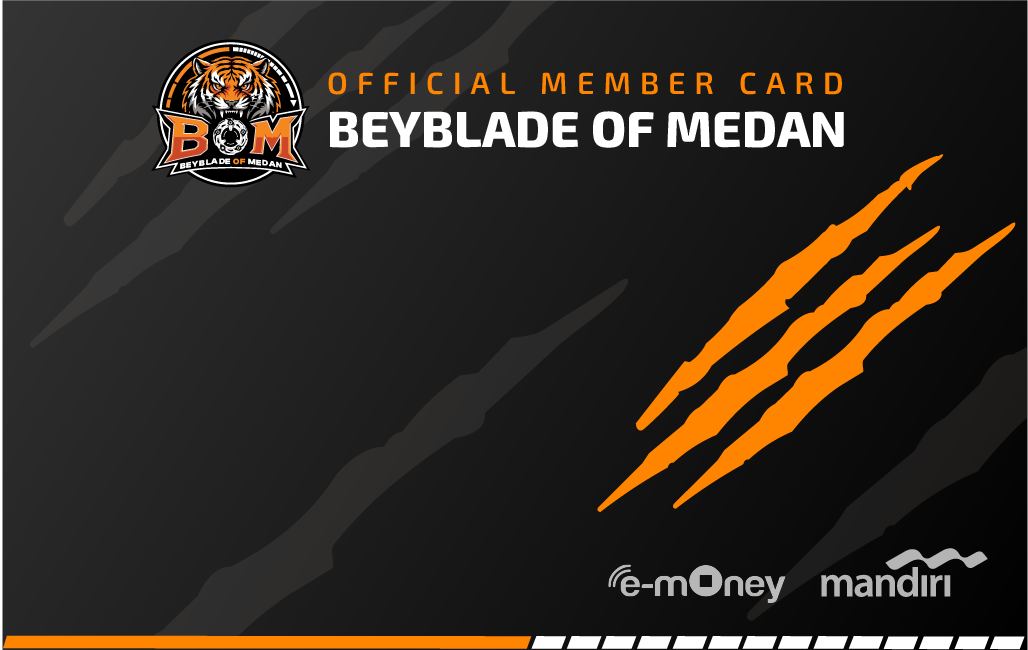
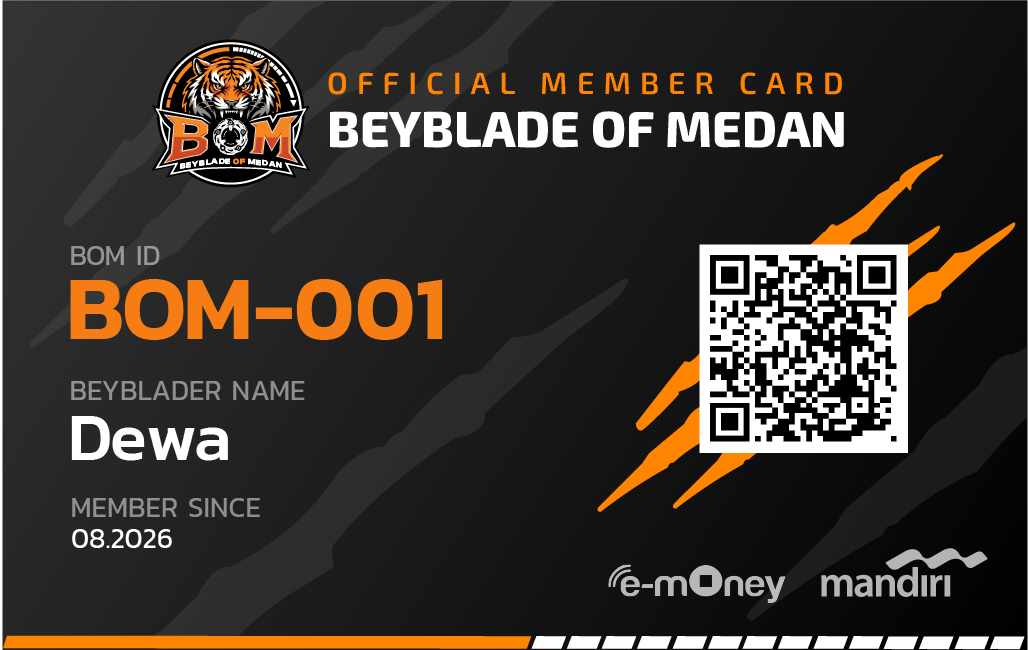
Flippable member cards with downloads, Tiger King for Non BOM ID in Unrank events, membership payment text

diff --git a/src/components/bom/flippable-member-card.tsx b/src/components/bom/flippable-member-card.tsx
@@ -1,0 +1,96 @@
+"use client";
+import { Download, RotateCw } from "lucide-react";
+import Image from "next/image";
+import { useRef, useState } from "react";
+import { Button } from "@/components/ui/button";
+import { MemberCard } from "./member-card";
+
+const loadImage = (src: string) => new Promise<HTMLImageElement>((resolve, reject) => {
+  const img = new window.Image();
+  img.onload = () => resolve(img);
+  img.onerror = () => reject(new Error("Could not load the card image"));
+  img.src = src;
+});
+
+/** Offset of an element inside the card, ignoring the flip transform (unlike getBoundingClientRect). */
+function offsetIn(el: HTMLElement, root: HTMLElement) {
+  let x = 0, y = 0;
+  for (let n: HTMLElement | null = el; n && n !== root; n = n.offsetParent as HTMLElement | null) { x += n.offsetLeft; y += n.offsetTop; }
+  return { x, y };
+}
+
+function save(href: string, filename: string) {
+  const a = document.createElement("a");
+  a.href = href;
+  a.download = filename;
+  document.body.append(a);
+  a.click();
+  a.remove();
+}
+
+/** Draws the front as it looks on the page (background, texts and QR code) onto a canvas at the background's full size and saves it as a PNG. */
+async function downloadFront(root: HTMLElement, bomId: string) {
+  const bg = await loadImage("/print/bom-emoney-03-blank.png");
+  const canvas = document.createElement("canvas");
+  canvas.width = bg.naturalWidth;
+  canvas.height = bg.naturalHeight;
+  const ctx = canvas.getContext("2d")!;
+  const k = canvas.width / root.offsetWidth;
+  ctx.drawImage(bg, 0, 0);
+  ctx.textBaseline = "middle";
+  root.querySelectorAll<HTMLElement>("[data-card-text]").forEach((el) => {
+    const cs = getComputedStyle(el);
+    const { x, y } = offsetIn(el, root);
+    ctx.font = `${cs.fontStyle} ${cs.fontWeight} ${parseFloat(cs.fontSize) * k}px ${cs.fontFamily}`;
+    ctx.fillStyle = cs.color;
+    const text = cs.textTransform === "uppercase" ? (el.textContent ?? "").toUpperCase() : (el.textContent ?? "");
+    ctx.fillText(text, x * k, (y + el.offsetHeight / 2) * k);
+  });
+  const qr = root.querySelector<HTMLImageElement>("[data-card-qr]");
+  if (qr) {
+    const { x, y } = offsetIn(qr, root);
+    const r = 6 * k;
+    ctx.fillStyle = "#fff";
+    ctx.beginPath();
+    ctx.roundRect(x * k, y * k, qr.offsetWidth * k, qr.offsetHeight * k, r);
+    ctx.fill();
+    ctx.drawImage(await loadImage(qr.src), x * k, y * k, qr.offsetWidth * k, qr.offsetHeight * k);
+  }
+  save(canvas.toDataURL("image/png"), `${bomId.toLowerCase()}-card-front.png`);
+}
+
+/** The member's card that turns over on a click or with a button to show the back (public/print/bom-emoney-04.png). */
+export function FlippableMemberCard({ bomId, bladerName, since, qr, design }: { bomId: string; bladerName: string; since: string; qr?: string; design?: "print" | "classic" }) {
+  const [back, setBack] = useState(false);
+  const [busy, setBusy] = useState(false);
+  const box = useRef<HTMLDivElement>(null);
+  const front = async () => {
+    const root = box.current?.querySelector<HTMLElement>("[data-member-card]");
+    if (!root) return;
+    setBusy(true);
+    try { await downloadFront(root, bomId); } finally { setBusy(false); }
+  };
+  return (
+    <div className="space-y-3" ref={box}>
+      <div className="[perspective:1200px]">
+        <div
+          className="relative aspect-[1028/650] w-full cursor-pointer transition-transform duration-700 ease-out [transform-style:preserve-3d] motion-reduce:transition-none"
+          style={{ transform: back ? "rotateY(180deg)" : "rotateY(0deg)" }}
+          onClick={() => setBack((b) => !b)}
+        >
+          <div className="absolute inset-0 [backface-visibility:hidden]" aria-hidden={back}>
+            <MemberCard bomId={bomId} bladerName={bladerName} since={since} qr={qr} design={design} />
+          </div>
+          <div className="absolute inset-0 overflow-hidden rounded-xl border border-white/10 [backface-visibility:hidden] [transform:rotateY(180deg)]" aria-hidden={!back}>
+            <Image src="/print/bom-emoney-04.png" alt="Back of the member card: TikTok, Instagram, email and website of Beyblade of Medan" fill sizes="(min-width: 768px) 26rem, 100vw" className="object-cover" />
+          </div>
+        </div>
+      </div>
+      <div className="flex flex-wrap justify-center gap-2">
+        <Button type="button" variant="outline" size="sm" onClick={() => setBack((b) => !b)} aria-pressed={back}><RotateCw aria-hidden />{back ? "Show the front" : "Show the back"}</Button>
+        <Button type="button" variant="outline" size="sm" onClick={front} disabled={busy}><Download aria-hidden />Download front</Button>
+        <Button type="button" variant="outline" size="sm" onClick={() => save("/print/bom-emoney-04.png", `${bomId.toLowerCase()}-card-back.png`)}><Download aria-hidden />Download back</Button>
+      </div>
+    </div>
+  );
+}

diff --git a/src/components/bom/member-card.tsx b/src/components/bom/member-card.tsx
@@ -1,29 +1,44 @@
 import Image from "next/image";
 
-/** The member's card: the printed Emoney card (public/print/bom-emoney-03.png) as its background, with this member's details on top. `qr` is a data URL for the QR code on the right. */
-export function MemberCard({ bomId, bladerName, since, qr }: { bomId: string; bladerName: string; since: string; qr?: string }) {
+/**
+ * The member's card. `design="print"` (the member page) uses the printed Emoney card (public/print/bom-emoney-03-blank.png) as its
+ * background; `design="classic"` (the membership sign-up) keeps the original dark card with its own logo, title and stripe.
+ * `qr` is a data URL for the QR code on the right.
+ */
+export function MemberCard({ bomId, bladerName, since, qr, design = "print" }: { bomId: string; bladerName: string; since: string; qr?: string; design?: "print" | "classic" }) {
+  const classic = design === "classic";
   return (
-    <div className="@container relative aspect-[1028/650] w-full overflow-hidden rounded-xl border border-white/10 bg-black text-left">
-      {/* The artwork already has the logo, the title, the claws and the stripe at the bottom. */}
-      <Image src="/print/bom-emoney-03.png" alt="" fill sizes="(min-width: 768px) 26rem, 100vw" priority className="object-cover" />
+    <div data-member-card className={`@container relative aspect-[1028/650] w-full overflow-hidden rounded-xl border border-white/10 text-left ${classic ? "bg-gradient-to-br from-zinc-800 via-zinc-950 to-black p-[4%]" : "bg-black"}`}>
+      {classic ? (
+        <div className="flex items-center gap-[4%]">
+          <Image src="/brand/logo-768.png" alt="" width={96} height={96} className="size-[17%] shrink-0" />
+          <div>
+            <div className="text-primary font-display text-[2.6cqw] font-bold tracking-[0.3em] uppercase">Official Member Card</div>
+            <div className="font-display text-[4.6cqw] leading-tight font-extrabold uppercase">Beyblade of Medan</div>
+          </div>
+        </div>
+      ) : (
+        <Image src="/print/bom-emoney-03-blank.png" alt="" fill sizes="(min-width: 768px) 26rem, 100vw" priority className="object-cover" />
+      )}
       <div className="absolute bottom-[10%] left-[4%] space-y-[3%]">
         <div>
-          <div className="text-muted-foreground text-[2.2cqw] uppercase">BOM ID</div>
-          <div className="text-primary font-display text-[8.5cqw] leading-none font-black uppercase">{bomId.toUpperCase()}</div>
+          <div data-card-text className="text-muted-foreground text-[2.2cqw] uppercase">BOM ID</div>
+          <div data-card-text className="text-primary font-display text-[8.5cqw] leading-none font-black uppercase">{bomId.toUpperCase()}</div>
         </div>
         <div className="mt-3">
-          <div className="text-muted-foreground text-[2.2cqw] uppercase">Beyblader name</div>
-          <div className="font-display text-[5cqw] leading-tight font-bold">{bladerName}</div>
+          <div data-card-text className="text-muted-foreground text-[2.2cqw] uppercase">Beyblader name</div>
+          <div data-card-text className="font-display text-[5cqw] leading-tight font-bold">{bladerName}</div>
         </div>
         <div className="mt-3">
-          <div className="text-muted-foreground text-[2cqw] uppercase">Member since</div>
-          <div className="text-[2.3cqw]">{since}</div>
+          <div data-card-text className="text-muted-foreground text-[2cqw] uppercase">Member since</div>
+          <div data-card-text className="text-[2.3cqw]">{since}</div>
         </div>
       </div>
       {qr && (
         // eslint-disable-next-line @next/next/no-img-element -- a generated data URL
-        <img src={qr} alt={`QR code for ${bomId.toUpperCase()}`} className="absolute top-[32%] right-[8%] aspect-square w-[22%] rounded-md bg-white" />
+        <img data-card-qr src={qr} alt={`QR code for ${bomId.toUpperCase()}`} className={`absolute aspect-square rounded-md bg-white ${classic ? "top-[36%] right-[6%] w-[30%]" : "top-[32%] right-[8%] w-[22%]"}`} />
       )}
+      {classic && <div aria-hidden className="bg-primary absolute inset-x-0 bottom-0 h-[1.5%]" />}
     </div>
   );
 }

diff --git a/src/app/membership/membership-form.tsx b/src/app/membership/membership-form.tsx
@@ -4,13 +4,13 @@ import { startTransition, useActionState, useState } from "react";
 import Image from "next/image";
 import { CalendarDays, MapPin } from "lucide-react";
 import { WhatsappIcon } from "@/components/bom/brand-icons";
-import { MemberCard } from "@/components/bom/member-card";
+import { FlippableCardImages } from "@/components/bom/flippable-card-images";
 import { Button } from "@/components/ui/button";
 import { Card, CardContent, CardDescription, CardHeader, CardTitle } from "@/components/ui/card";
 import { Input, NativeSelect, Textarea } from "@/components/ui/input";
 import { AGE_GROUPS, HEAR_FROM } from "@/domain/join-request";
 import { MEMBERSHIP_FEE } from "@/lib/content";
-import { ADMIN_WHATSAPP, ADMIN_WHATSAPP_URL, PAYMENT_ACCOUNT } from "@/lib/venue";
+import { PAYMENT_ACCOUNT } from "@/lib/venue";
 import { ProofUpload } from "@/components/form/proof-upload";
 import { checkBladerName, registerMember } from "./actions";
 import { BomIdBadge } from "@/components/bom/bom-id-badge";
@@ -20,7 +20,7 @@ type Props = { since: string; nextEvent: string | null; venue: string; whatsappI
 const label = "text-muted-foreground mb-1 block text-xs uppercase";
 const Req = () => <span className="text-destructive" aria-hidden> *</span>;
 
-export function MembershipForm({ since, nextEvent, venue, whatsappInvite }: Props) {
+export function MembershipForm({ nextEvent, venue, whatsappInvite }: Props) {
   const [state, run, pending] = useActionState(registerMember, {});
   const [ageGroup, setAgeGroup] = useState("");
   const [nameTaken, setNameTaken] = useState(false);
@@ -29,7 +29,7 @@ export function MembershipForm({ since, nextEvent, venue, whatsappInvite }: Prop
   if (state.ok && state.data) {
     return (
       <div className="space-y-4">
-        <MemberCard bomId={state.data.bomId} bladerName={state.data.bladerName} since={since} />
+        <FlippableCardImages className="mx-auto w-full max-w-md" />
         <Card className="border-primary">
           <CardHeader>
             <CardTitle>Welcome, {state.data.bladerName}!</CardTitle>
@@ -107,7 +107,7 @@ export function MembershipForm({ since, nextEvent, venue, whatsappInvite }: Prop
               <Image src="/print/G609448641-0703A01-gma_branding-1792299733.png" alt="BOM payment QRIS" width={1000} height={1150} className="mx-auto w-full max-w-xs rounded-md" />
               <p>{PAYMENT_ACCOUNT}</p>
               <p className="text-muted-foreground">
-                Please contact our admin (<a href={ADMIN_WHATSAPP_URL} target="_blank" rel="noopener noreferrer" className="text-primary underline">{ADMIN_WHATSAPP}</a>) if you have any question, like wanting to choose a certain number as your ID number or to pick up the card.
+                Please contact our admin in {whatsappInvite ? <a href={whatsappInvite} target="_blank" rel="noopener noreferrer" className="text-primary underline">Whatsapp group</a> : "Whatsapp group"}
               </p>
             </div>
             <div>

diff --git a/src/app/admin/leaderboard/results-entry.tsx b/src/app/admin/leaderboard/results-entry.tsx
@@ -31,8 +31,8 @@ const MODES = [["manual", "Add one by one"], ["paste", "Paste a list"], ["challo
 type Mode = (typeof MODES)[number][0];
 
 /** Three ways to enter an event's results: add a member at a time, paste the whole list, or read the final ranking of a Challonge bracket. */
-export function ResultsEntry({ eventId, text, challongeUrl, members, hasChallongeKey }: {
-  eventId: string; text: string; challongeUrl: string | null; members: { id: string; name: string; bom_id: string }[]; hasChallongeKey: boolean;
+export function ResultsEntry({ eventId, text, challongeUrl, members, hasChallongeKey, tier }: {
+  tier: string; eventId: string; text: string; challongeUrl: string | null; members: { id: string; name: string; bom_id: string }[]; hasChallongeKey: boolean;
 }) {
   const [mode, setMode] = useState<Mode>(challongeUrl ? "challonge" : "paste");
   const [list, setList] = useState(text);
@@ -48,11 +48,11 @@ export function ResultsEntry({ eventId, text, challongeUrl, members, hasChallong
   const preview = useMemo(() => {
     if (list.trim() === "") return null;
     try {
-      return { rows: parseResultsText(list, members) };
+      return { rows: parseResultsText(list, members, { guestTigerKing: tier === "Unrank" }) };
     } catch (e) {
       return { error: e instanceof Error ? e.message : "Check the list" };
     }
-  }, [list, members]);
+  }, [list, members, tier]);
 
   // Typing "dewa", "bom 1" or the full suggestion all find the member.
   const chosen = findMember(members, memberText);
@@ -128,7 +128,7 @@ export function ResultsEntry({ eventId, text, challongeUrl, members, hasChallong
             <HelpTip label="How to enter results">
               <p><b>Top 8:</b> the place, then a BOM ID or a name (or both: <code>1 [BOM-001] Decade</code>). That is all that is needed. Optionally, up to three combo lines under it. <b>Leave a blank line between members.</b></p>
               <p><b>9th and below:</b> number them (<code>9 [BOM-010]</code>), then one member per line, just a BOM ID or a name. Only the top 8 can have combos.</p>
-              <p>Add (TK) after the Tiger King, once. Two members can share a place.</p>
+              <p>Add (TK) after the Tiger King, once. Two members can share a place.{tier === "Unrank" && " In an Unrank event a Non BOM ID can be the Tiger King too (no points are given)."}</p>
               <p><b>Not a member?</b> Write <code>[Non BOM ID]</code> instead of the BOM ID. A name that matches no member is also saved as Non BOM ID automatically: it counts as a participant but is not shown on the leaderboard or in results.</p>
               <p>A plain list of names, one per line, still works (first line is 1st place). Saving replaces the results of this event.</p>
               <pre className="bg-muted/60 rounded p-2 whitespace-pre">{TEMPLATE}</pre>

diff --git a/src/domain/result.ts b/src/domain/result.ts
@@ -52,9 +52,10 @@ const TK_MARK = /(\(tk\)|\*)\s*$/i;
  *
  * A member is found by the BOM ID in brackets, else by blader name. "(TK)" or "*" after the name gives the Tiger King,
  * once. A name that matches no member is saved as a guest (Non BOM ID); write "[Non BOM ID]" to make a guest even when a
- * member has the same name. Only the top 8 and the Tiger King can have combos.
+ * member has the same name. Only the top 8 and the Tiger King can have combos. A guest can be Tiger King only when
+ * `guestTigerKing` is set (Unrank events, which give no points).
  */
-export function parseResultsText(text: string, players: Candidate[]): ResultRow[] {
+export function parseResultsText(text: string, players: Candidate[], opts: { guestTigerKing?: boolean } = {}): ResultRow[] {
   const squash = (v: string) => v.toLowerCase().replace(/[\s-]/g, "");
   const lines = text.split(/\r?\n/).map((l) => l.trim()).filter(Boolean);
   if (lines.length === 0) throw new Error("Add at least one member");
@@ -123,11 +124,11 @@ export function parseResultsText(text: string, players: Candidate[]): ResultRow[
       // Marked Non BOM ID: counted as a participant, never shown on the leaderboard.
       const guestName = rest.slice(0, 60);
       if (!guestName) throw new Error("A line has no name");
-      if (tigerKing) tigerGuests.push(guestName);
-      else rows.push({ playerId: null, guestName, place, tigerKing: false, combos });
+      if (tigerKing && !opts.guestTigerKing) tigerGuests.push(guestName);
+      else rows.push({ playerId: null, guestName, place, tigerKing, combos });
     }
   }
-  if (tigerGuests.length) throw new Error(`${tigerGuests.join(", ")} has no BOM ID, so cannot be Tiger King`);
+  if (tigerGuests.length) throw new Error(`${tigerGuests.join(", ")} has no BOM ID, so cannot be Tiger King (only in Unrank events)`);
   const keys = rows.map((r) => r.playerId ?? `guest:${r.guestName!.toLowerCase()}`);
   if (new Set(keys).size !== keys.length) throw new Error("A name is listed twice");
   if (rows.filter((r) => r.tigerKing).length > 1) throw new Error("Only one Tiger King per event");

diff --git a/src/components/bom/flippable-card-images.tsx b/src/components/bom/flippable-card-images.tsx
@@ -1,0 +1,27 @@
+"use client";
+import { RotateCw } from "lucide-react";
+import Image from "next/image";
+import { useState } from "react";
+import { Button } from "@/components/ui/button";
+
+/** The printed card (bom-emoney-03.png) and its back (bom-emoney-04.png): click the card or the button to turn it over. */
+export function FlippableCardImages({ className }: { className?: string }) {
+  const [back, setBack] = useState(false);
+  return (
+    <div className={className}>
+      <div className="[perspective:1200px]">
+        <div
+          className="relative aspect-[1028/650] w-full cursor-pointer transition-transform duration-700 ease-out [transform-style:preserve-3d] motion-reduce:transition-none"
+          style={{ transform: back ? "rotateY(180deg)" : "rotateY(0deg)" }}
+          onClick={() => setBack((b) => !b)}
+        >
+          <Image src="/print/bom-emoney-03.png" alt="BOM Emoney Membership Card, front" width={1028} height={650} className="absolute inset-0 w-full rounded-xl [backface-visibility:hidden]" aria-hidden={back} />
+          <Image src="/print/bom-emoney-04.png" alt="BOM Emoney Membership Card, back" width={1028} height={650} className="absolute inset-0 w-full rounded-xl [backface-visibility:hidden] [transform:rotateY(180deg)]" aria-hidden={!back} />
+        </div>
+      </div>
+      <div className="mt-3 flex justify-center">
+        <Button type="button" variant="outline" size="sm" onClick={() => setBack((b) => !b)} aria-pressed={back}><RotateCw aria-hidden />{back ? "Show the front" : "Show the back"}</Button>
+      </div>
+    </div>
+  );
+}

diff --git a/src/app/admin/leaderboard/actions.ts b/src/app/admin/leaderboard/actions.ts
@@ -50,8 +50,9 @@ export async function saveEventResults(eventId: string, _prev: FormState, formDa
   const state = await toFormState(async () => {
     if (!isUuid(eventId)) throw new Error("Invalid input");
     const supabase = await requireResultsAccess(staff, eventId);
+    const event = await supabaseScheduleEvents(supabase).get(eventId);
     const players = await supabasePlayers(supabase).list(1000, { includeRegistered: true });
-    const rows = parseResultsText(String(formData.get("results") ?? ""), players.flatMap((p) => (p.id ? [{ id: p.id, name: p.name, bom_id: p.bom_id }] : [])));
+    const rows = parseResultsText(String(formData.get("results") ?? ""), players.flatMap((p) => (p.id ? [{ id: p.id, name: p.name, bom_id: p.bom_id }] : [])), { guestTigerKing: event?.tier === "Unrank" });
     guests = rows.flatMap((r) => (r.guestName ? [r.guestName] : []));
     await supabaseResults(supabase).replaceForEvent(eventId, rows);
     // The Challonge bracket the list came from, kept with the event so the site can link to it.

diff --git a/src/app/member/[bomId]/page.tsx b/src/app/member/[bomId]/page.tsx
@@ -2,7 +2,7 @@ import { ArrowLeft, Crown, ExternalLink } from "lucide-react";
 import type { Metadata } from "next";
 import Link from "next/link";
 import { notFound, permanentRedirect } from "next/navigation";
-import { MemberCard } from "@/components/bom/member-card";
+import { FlippableMemberCard } from "@/components/bom/flippable-member-card";
 import { Badge } from "@/components/ui/badge";
 import { Card, CardContent, CardHeader, CardTitle } from "@/components/ui/card";
 import { Table, TableBody, TableCell, TableHead, TableHeader, TableRow } from "@/components/ui/table";
@@ -83,7 +83,7 @@ export default async function MemberPage({ params }: Props) {
             </div>
           </div>
         </div>
-        <MemberCard bomId={player.bom_id} bladerName={player.name} since={since} qr={qr} />
+        <FlippableMemberCard bomId={player.bom_id} bladerName={player.name} since={since} qr={qr} />
       </div>
 
       <div className="grid grid-cols-2 gap-3 sm:grid-cols-3 md:grid-cols-6">

diff --git a/src/app/membership/page.tsx b/src/app/membership/page.tsx
@@ -1,5 +1,5 @@
+import { FlippableCardImages } from "@/components/bom/flippable-card-images";
 import { Check } from "lucide-react";
-import Image from "next/image";
 import { RibbonBanner } from "@/components/bom/ribbon-banner";
 import { SectionHeading } from "@/components/bom/section-heading";
 import { Card, CardDescription, CardHeader, CardTitle } from "@/components/ui/card";
@@ -39,7 +39,7 @@ export default async function MembershipPage() {
               ))}
             </ul>
             <p className="mt-4 max-w-xl">Don&apos;t miss out on these exclusive perks—join us now and elevate your Beyblade experience with us!</p>
-            <Image src="/print/bom-emoney-03.png" alt="BOM Emoney Membership Card" width={1028} height={650} className="mt-6 w-full max-w-md rounded-xl" />
+            <FlippableCardImages className="mt-6 w-full max-w-md" />
           </section>
 
           <section aria-labelledby="how">

diff --git a/src/server/results.ts b/src/server/results.ts
@@ -81,7 +81,7 @@ export function supabaseResults(client: SupabaseClient): ResultsRepository {
     },
     async replaceForEvent(eventId, rows) {
       const members = rows.flatMap((r) => (r.playerId ? [{ event_id: eventId, player_id: r.playerId, place: r.place, tiger_king: r.tigerKing, combos: r.combos }] : []));
-      const guests = rows.flatMap((r) => (r.guestName ? [{ event_id: eventId, guest_name: r.guestName, place: r.place, tiger_king: false, combos: r.combos }] : []));
+      const guests = rows.flatMap((r) => (r.guestName ? [{ event_id: eventId, guest_name: r.guestName, place: r.place, tiger_king: r.tigerKing, combos: r.combos }] : []));
       if (members.length) {
         const { error } = await client.from("event_placements").upsert(members, { onConflict: "event_id,player_id" });
         check(error, "Failed to save results");

diff --git a/src/app/admin/leaderboard/results/[eventId]/page.tsx b/src/app/admin/leaderboard/results/[eventId]/page.tsx
@@ -44,7 +44,7 @@ export default async function EventResultsPage({ params }: { params: Promise<{ e
         </div>
 
         <Participants eventId={event.id} rows={event.rows} />
-        <ResultsEntry eventId={event.id} text={event.text} challongeUrl={event.challongeUrl} members={members} hasChallongeKey={!!process.env.CHALLONGE_API_KEY} />
+        <ResultsEntry tier={event.tier} eventId={event.id} text={event.text} challongeUrl={event.challongeUrl} members={members} hasChallongeKey={!!process.env.CHALLONGE_API_KEY} />
 
         <Link href="/admin/leaderboard#results" className="text-muted-foreground hover:text-primary flex w-fit items-center gap-1 text-sm"><ArrowLeft className="size-4" aria-hidden />Back to Leaderboard</Link>
       </div>

diff --git a/src/lib/content.ts b/src/lib/content.ts
@@ -48,7 +48,7 @@ export const memberBenefits = [
 
 export const registrationSteps = [
   ["Register", "Fill in the form, upload your payment screenshot and get your BOM ID right away."],
-  ["Pay and get your card", `Pay ${MEMBERSHIP_FEE} once (QRIS or transfer) and upload the screenshot. The committee verifies it and contacts you on WhatsApp for your card.`],
+  ["Pay and get your card", `Pay ${MEMBERSHIP_FEE} once (QRIS) and upload the screenshot. The committee verifies it and contacts you on WhatsApp for your card.`],
   ["Come to Ranked", "Show up to a weekly Ranked session with your card. Your first match activates your ID and puts you on the leaderboard."],
 ] as const;
 
